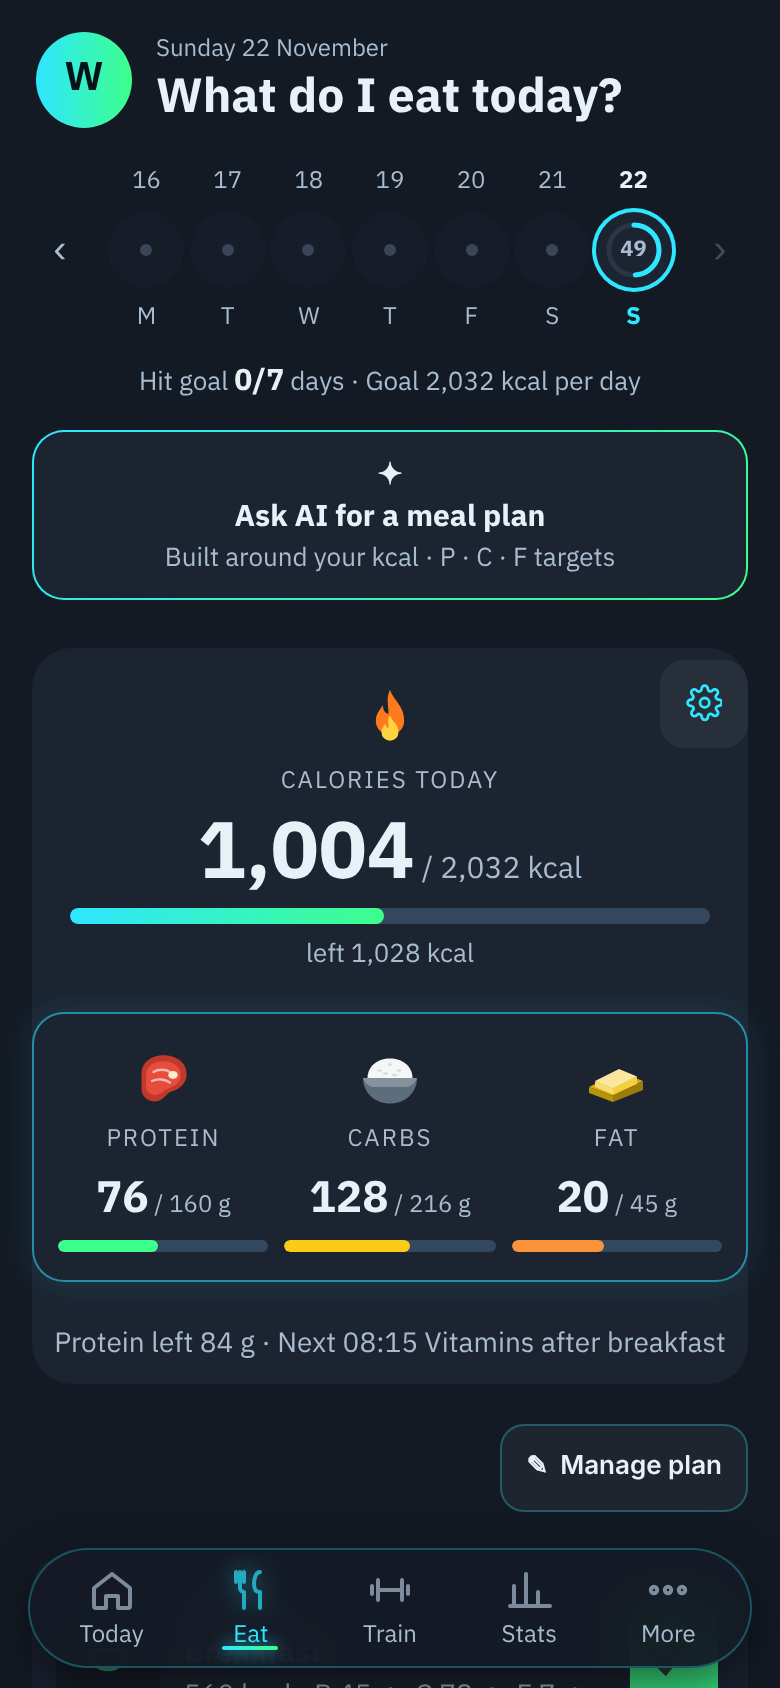
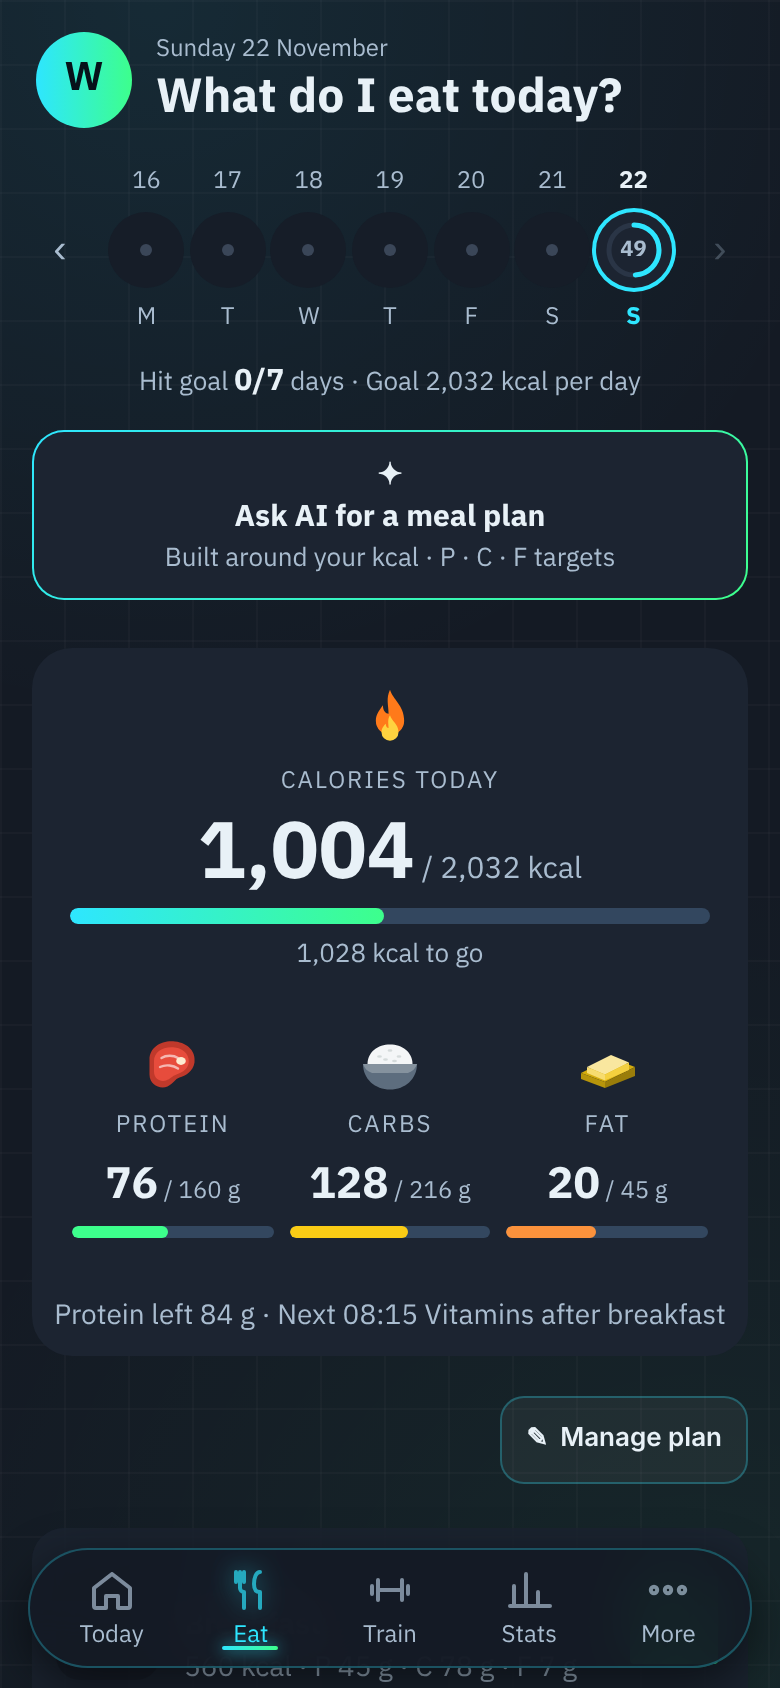
Eat: remove settings gear, inset macro bars (#224)
* Today: rested program leads, rest-day exit, inline meal cancel, over-target bar

Claude-Session: https://claude.ai/code/session_01TA1QFnqgBxBRFsiXemJ9Lg

* Today: body weight + 7-day change + weigh-in in the body card

Claude-Session: https://claude.ai/code/session_01TA1QFnqgBxBRFsiXemJ9Lg

* Today: body card shows weight, muscle mass and body fat

Claude-Session: https://claude.ai/code/session_01TA1QFnqgBxBRFsiXemJ9Lg

* Today: weigh-in opens the full body-log sheet

Claude-Session: https://claude.ai/code/session_01TA1QFnqgBxBRFsiXemJ9Lg

* Today: headline matches suggestion, inline cancel, blank weigh-in, fits above tab bar

Claude-Session: https://claude.ai/code/session_01TA1QFnqgBxBRFsiXemJ9Lg

* fix(Today): Recovery times button works, body log button always available

Claude-Session: https://claude.ai/code/session_01TA1QFnqgBxBRFsiXemJ9Lg

* Today: meal chips (tick any meal), clearer counters

Claude-Session: https://claude.ai/code/session_01TA1QFnqgBxBRFsiXemJ9Lg

* Today: program preview, named duplicates, wrapped meal chips, labelled signals

Claude-Session: https://claude.ai/code/session_01TA1QFnqgBxBRFsiXemJ9Lg

* Today: one item per program, protein over not a warning, lighter secondary cards

Claude-Session: https://claude.ai/code/session_01TA1QFnqgBxBRFsiXemJ9Lg

* Today: honest readiness split, quieter zero states, sheet Escape/backdrop close

Claude-Session: https://claude.ai/code/session_01TA1QFnqgBxBRFsiXemJ9Lg
[…]

diff --git a/public/index.html b/public/index.html
@@ -8,11 +8,11 @@
 <meta name="apple-mobile-web-app-status-bar-style" content="black-translucent">
 <meta name="apple-mobile-web-app-title" content="WeightGram">
 <link rel="manifest" href="/manifest.webmanifest">
-<link rel="apple-touch-icon" href="/apple-touch-icon.png?v=138650">
+<link rel="apple-touch-icon" href="/apple-touch-icon.png?v=138651">
 <title>WeightGram</title>
 <link rel="stylesheet" href="https://fonts.googleapis.com/css2?family=IBM+Plex+Sans+Thai:wght@400;500;700&family=IBM+Plex+Mono:wght@400;500&family=Share+Tech+Mono&display=swap">
 <style>:root{padding-top:env(safe-area-inset-top,0px);padding-bottom:env(safe-area-inset-bottom,0px)}*{-webkit-tap-highlight-color:transparent}body{margin:0;font-size:var(--t-sm);font-family:system-ui,sans-serif}img{max-width:100%}[hidden]{display:none!important}</style>
-<link rel="stylesheet" href="/css/app.css?v=138650">
+<link rel="stylesheet" href="/css/app.css?v=138651">
 </head><body>
 
 <div class="wrap">
@@ -283,39 +283,39 @@
   </div>
 </div>
 
-<script src="/js/core.js?v=138650"></script>
-<script src="/js/food.js?v=138650"></script>
-<script src="/js/locations.js?v=138650"></script>
-<script src="/js/programs.js?v=138650"></script>
-<script src="/js/run.js?v=138650"></script>
-<script src="/js/workout.js?v=138650"></script>
-<script src="/js/exercise-edit.js?v=138650"></script>
-<script src="/js/edit-tx.js?v=138650"></script>
-<script src="/js/exercise-library.js?v=138650"></script>
-<script src="/js/program-manager.js?v=138650"></script>
-<script src="/js/hero.js?v=138650"></script>
-<script src="/js/rest-timer.js?v=138650"></script>
-<script src="/js/auth.js?v=138650"></script>
-<script src="/js/push.js?v=138650"></script>
-<script src="/js/data-io.js?v=138650"></script>
-<script src="/js/sync.js?v=138650"></script>
-<script src="/js/muscle-map.js?v=138650"></script>
-<script src="/js/progress.js?v=138650"></script>
-<script src="/js/history-chart.js?v=138650"></script>
-<script src="/js/stats-extra.js?v=138650"></script>
-<script src="/js/meal-plan.js?v=138650"></script>
-<script src="/js/undo.js?v=138650"></script>
-<script src="/js/home.js?v=138650"></script>
-<script src="/js/share.js?v=138650"></script>
-<script src="/js/explore.js?v=138650"></script>
-<script src="/js/onboarding.js?v=138650"></script>
-<script src="/js/account.js?v=138650"></script>
-<script src="/js/share-card.js?v=138650"></script>
-<script src="/js/number-pad.js?v=138650"></script>
-<script src="/js/refresh.js?v=138650"></script>
-<script src="/js/app.js?v=138650"></script>
-<script src="/js/stats-calm.js?v=138650"></script>
-<script src="/js/ai-coach.js?v=138650"></script>
+<script src="/js/core.js?v=138651"></script>
+<script src="/js/food.js?v=138651"></script>
+<script src="/js/locations.js?v=138651"></script>
+<script src="/js/programs.js?v=138651"></script>
+<script src="/js/run.js?v=138651"></script>
+<script src="/js/workout.js?v=138651"></script>
+<script src="/js/exercise-edit.js?v=138651"></script>
+<script src="/js/edit-tx.js?v=138651"></script>
+<script src="/js/exercise-library.js?v=138651"></script>
+<script src="/js/program-manager.js?v=138651"></script>
+<script src="/js/hero.js?v=138651"></script>
+<script src="/js/rest-timer.js?v=138651"></script>
+<script src="/js/auth.js?v=138651"></script>
+<script src="/js/push.js?v=138651"></script>
+<script src="/js/data-io.js?v=138651"></script>
+<script src="/js/sync.js?v=138651"></script>
+<script src="/js/muscle-map.js?v=138651"></script>
+<script src="/js/progress.js?v=138651"></script>
+<script src="/js/history-chart.js?v=138651"></script>
+<script src="/js/stats-extra.js?v=138651"></script>
+<script src="/js/meal-plan.js?v=138651"></script>
+<script src="/js/undo.js?v=138651"></script>
+<script src="/js/home.js?v=138651"></script>
+<script src="/js/share.js?v=138651"></script>
+<script src="/js/explore.js?v=138651"></script>
+<script src="/js/onboarding.js?v=138651"></script>
+<script src="/js/account.js?v=138651"></script>
+<script src="/js/share-card.js?v=138651"></script>
+<script src="/js/number-pad.js?v=138651"></script>
+<script src="/js/refresh.js?v=138651"></script>
+<script src="/js/app.js?v=138651"></script>
+<script src="/js/stats-calm.js?v=138651"></script>
+<script src="/js/ai-coach.js?v=138651"></script>
 
 <div id="rec-wrap" class="stack" style="gap:10px" hidden><div class="rcf-head"><div class="sec-t" data-i="การฟื้นตัวของกล้ามเนื้อ">การฟื้นตัวของกล้ามเนื้อ</div><button class="btn sm" id="rec-cfg">⚙ <span data-i="ตั้งเวลาฟื้นตัว">ตั้งเวลาฟื้นตัว</span></button></div><div class="card" id="rec-body"></div></div>
 </body></html>

diff --git a/public/css/app.css b/public/css/app.css
@@ -1688,3 +1688,4 @@ body.on-stats .wrap>header{display:none}
 #food-ring{width:auto!important;height:auto!important;max-width:none!important;aspect-ratio:auto!important}
 .wrap,.wrap *{overflow-anchor:none}
 #macro-bars{border:0!important;box-shadow:none!important;background:none!important;padding:8px 0!important}
+#day-gear{display:none!important}#macro-bars{padding:8px 20px!important}

diff --git a/docs/work/2026-11-21-train-calm/plan-eat-gear.md b/docs/work/2026-11-21-train-calm/plan-eat-gear.md
@@ -1,0 +1,3 @@
+# Eat: no gear, bars inset
+- [x] hide day-type gear
+- [x] macro bars 20px side padding, aligned with kcal bar
